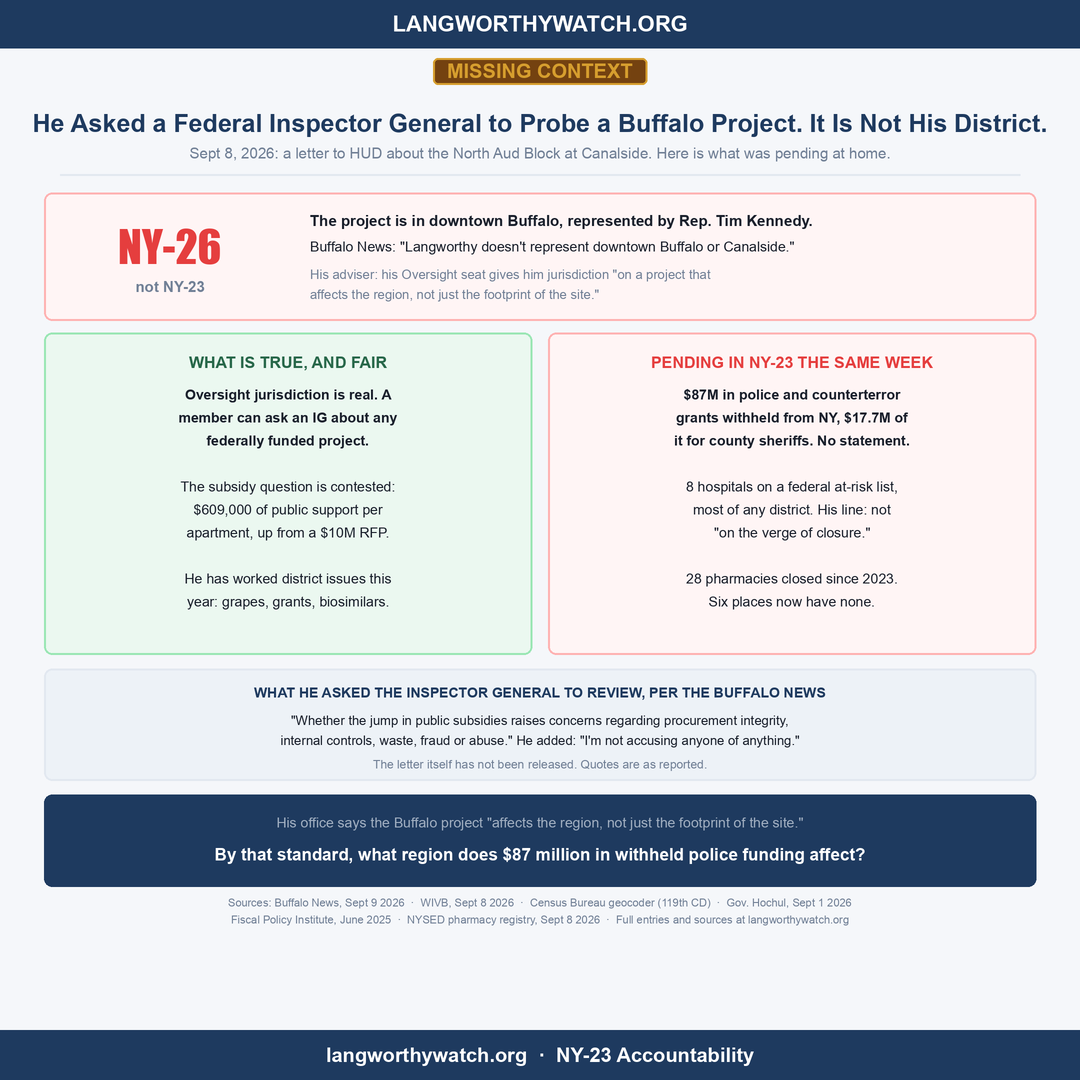
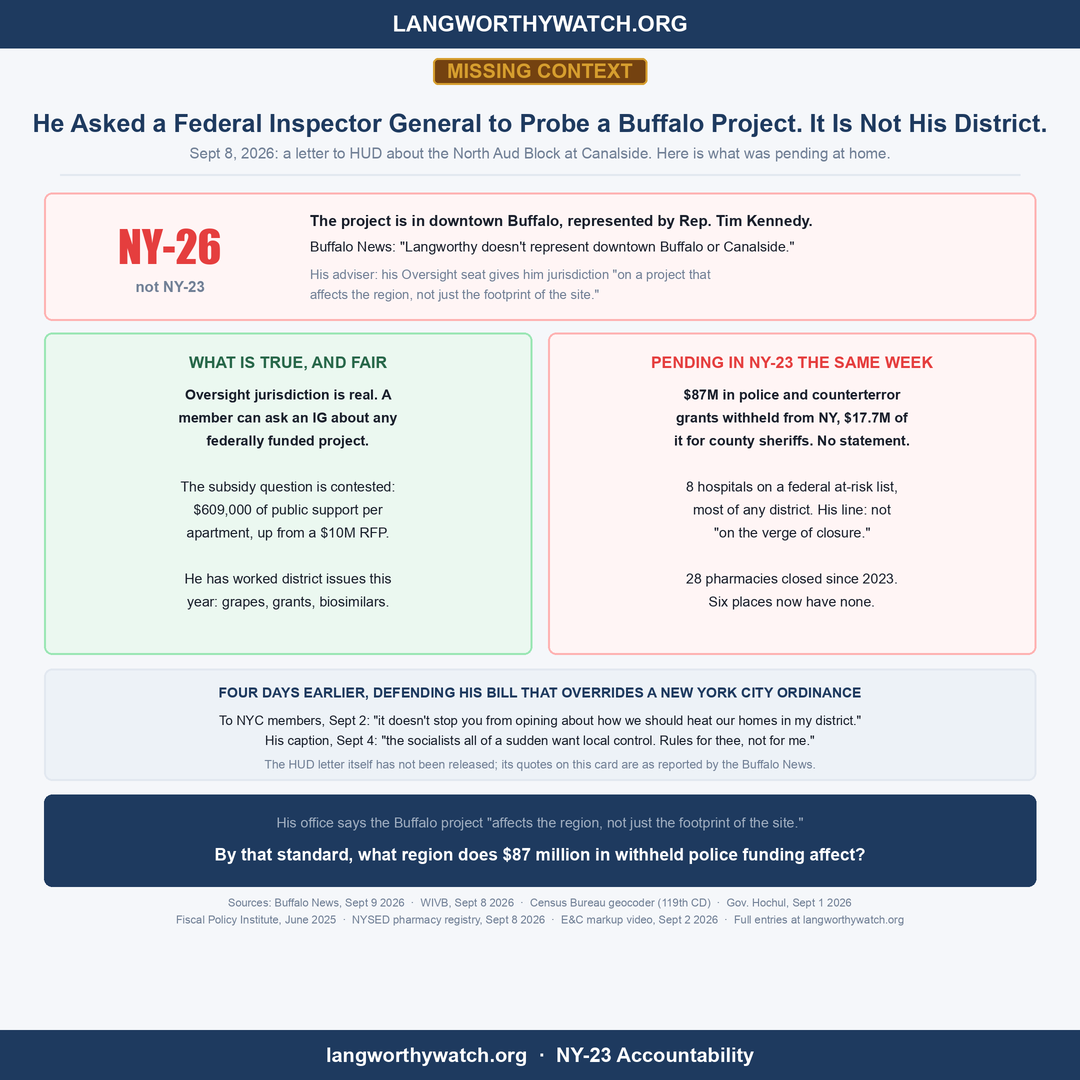
update(draft): North Aud entry, card, and caption add the local-control contrast from the BUSES markup

Changed region(s): [[0.2139, 0.6111, 0.7944, 0.7333], [0.1833, 0.825, 0.825, 0.8556]]

diff --git a/social-media/create_north_aud_card.py b/social-media/create_north_aud_card.py
@@ -73,10 +73,10 @@ y = top + col_h + 14
 # ---- strip --------------------------------------------------------------
 strip_h = 112
 c.panel(44, y, c.w - 44, y + strip_h, fill="#EDF2F7", outline=BORDER)
-c.text(c.w / 2, y + 24, "WHAT HE ASKED THE INSPECTOR GENERAL TO REVIEW, PER THE BUFFALO NEWS", size=14, bold=True, fill=NAVY, anchor="mm")
-c.text(c.w / 2, y + 52, '"Whether the jump in public subsidies raises concerns regarding procurement integrity,', size=13, fill=DARK, anchor="mm")
-c.text(c.w / 2, y + 72, 'internal controls, waste, fraud or abuse." He added: "I\'m not accusing anyone of anything."', size=13, fill=DARK, anchor="mm")
-c.text(c.w / 2, y + 96, "The letter itself has not been released. Quotes are as reported.", size=12, fill=MUTED, anchor="mm")
+c.text(c.w / 2, y + 24, "FOUR DAYS EARLIER, DEFENDING HIS BILL THAT OVERRIDES A NEW YORK CITY ORDINANCE", size=14, bold=True, fill=NAVY, anchor="mm")
+c.text(c.w / 2, y + 52, 'To NYC members, Sept 2: "it doesn\'t stop you from opining about how we should heat our homes in my district."', size=13, fill=DARK, anchor="mm")
+c.text(c.w / 2, y + 72, 'His caption, Sept 4: "the socialists all of a sudden want local control. Rules for thee, not for me."', size=13, fill=DARK, anchor="mm")
+c.text(c.w / 2, y + 96, "The HUD letter itself has not been released; its quotes on this card are as reported by the Buffalo News.", size=12, fill=MUTED, anchor="mm")
 y += strip_h + 14
 
 # ---- kicker -------------------------------------------------------------
@@ -89,7 +89,7 @@ c.text(c.w / 2, y + 60, "By that standard, what region does $87 million in withh
 y += kick_h + 16
 
 c.text(c.w / 2, y, "Sources: Buffalo News, Sept 9 2026  ·  WIVB, Sept 8 2026  ·  Census Bureau geocoder (119th CD)  ·  Gov. Hochul, Sept 1 2026", size=11, fill=MUTED, anchor="mm")
-c.text(c.w / 2, y + 17, "Fiscal Policy Institute, June 2025  ·  NYSED pharmacy registry, Sept 8 2026  ·  Full entries and sources at langworthywatch.org", size=11, fill=MUTED, anchor="mm")
+c.text(c.w / 2, y + 17, "Fiscal Policy Institute, June 2025  ·  NYSED pharmacy registry, Sept 8 2026  ·  E&C markup video, Sept 2 2026  ·  Full entries at langworthywatch.org", size=11, fill=MUTED, anchor="mm")
 
 c.footer_bar()
 c.save(os.path.join(os.path.dirname(os.path.abspath(__file__)), "north_aud_card.png"), to_desktop=True)

diff --git a/social-media/north_aud_post.md b/social-media/north_aud_post.md
@@ -2,23 +2,23 @@ DRAFT (not yet posted; entry is still draft: true). Card: north_aud_card.png. En
 
 ---
 
-Rep. Langworthy asked a federal inspector general to investigate a housing project in downtown Buffalo. It is not in his district. Here is what was pending in the district he does represent, the same week.
+Rep. Langworthy asked a federal inspector general to investigate a housing project in downtown Buffalo. It is not in his district. Here is what was pending in his own district the same week.
 
-On Sept 8 he wrote HUD's Office of Inspector General about the North Aud Block at Canalside: 251 units, more than $609,000 in public support per apartment, up from a $10 million figure in the 2022 request for proposals. His words, per the Buffalo News: "I am concerned that the project has changed materially since it was competitively solicited."
+On Sept 8 he wrote HUD's inspector general about the North Aud Block at Canalside: 251 units, more than $609,000 in public support per apartment, up from $10 million in the 2022 request for proposals. His words, per the Buffalo News: "I am concerned that the project has changed materially since it was competitively solicited."
 
 Canalside is in NY-26, represented by Tim Kennedy. The Buffalo News: "Langworthy doesn't represent downtown Buffalo or Canalside." His adviser: his Oversight seat gives him jurisdiction "on a project that affects the region, not just the footprint of the site."
 
 Pending in NY-23 the same week, each documented on our site:
 
-→ $87 million in federal police and counterterrorism grants still withheld from New York, including $17.7 million for the program that funds sheriffs in all eight NY-23 counties. No public statement from him located, while Malliotakis, Lawler and Garbarino pressed the administration.
-→ Eight NY-23 hospitals on the Fiscal Policy Institute's at-risk list, the most of any district in the state. His June town hall line: "every rural hospital that I've met is not on the verge of closure."
-→ 28 community pharmacies closed since 2023; six places now have none.
-→ The $212 million rural health award, announced three times, no NY-23 facility named.
+→ $87 million in federal police and counterterrorism grants still withheld from New York, including $17.7 million for the program that funds sheriffs in all eight NY-23 counties. No public statement from him located; Malliotakis, Lawler and Garbarino pressed the administration.
+→ Eight NY-23 hospitals on a federal at-risk list, the most of any district in the state. His June town hall line: "every rural hospital that I've met is not on the verge of closure."
+→ 28 pharmacies closed since 2023; six places now have none.
+→ Four days earlier, defending his own bill overriding a New York City ordinance, he told the city's members to stop "opining about how we should heat our homes in my district," then posted that "the socialists all of a sudden want local control."
 
-The fair reading: Oversight jurisdiction is real, the subsidy question is contested across party lines, and he has worked district matters this year (grapes, grants, biosimilars). We take no position on the project. The gap is specific: a federal probe request for Buffalo, and no located letter or statement on the two largest problems at home.
+The fair reading: Oversight jurisdiction is real, the subsidy question is contested across party lines, and he has worked district matters this year. We take no position on the project. The gap is specific: a probe request for Buffalo, and no located letter or statement on the two largest problems at home.
 
 By his office's own standard, what region does $87 million in withheld police funding affect?
 
 VERDICT: Missing Context
 
-The letter has not been released; quotes are as reported. Full entry and sources: https://langworthywatch.org/fact-checks/2026-09-09-north-aud-probe-not-his-district/
+Letter not yet released; quotes as reported. Full entry and sources: https://langworthywatch.org/fact-checks/2026-09-09-north-aud-probe-not-his-district/

diff --git a/content/fact-checks/2026-09-09-north-aud-probe-not-his-district.md b/content/fact-checks/2026-09-09-north-aud-probe-not-his-district.md
@@ -76,6 +76,29 @@ footprint of the site.'"
 
 ---
 
+## The local-control argument, four days earlier
+
+The letter followed, by four days, his own argument against outside
+interference in local decisions. Defending his BUSES Act in the Energy and
+Commerce markup on September 2, a bill that uses federal law to override a
+New York City idling ordinance, he told the city's members: "yes, I do not
+live in your district, but it doesn't stop you from opining about how we
+should heat our homes in my district" (committee recording, 119:03; see
+[the BUSES entry](/fact-checks/2026-09-04-buses-act-bounty-post-vs-committee-record/)).
+His September 4 caption on that clip: "NYC liberals love forcing their
+radical agenda on rural communities like NY23... But the second we try to
+stop their asinine bus-driver bounty scheme... the socialists all of a
+sudden want local control. Rules for thee, not for me."
+
+Within the same week, then, the record shows federal preemption of a city
+law, a federal probe request into another district's state-run project, and
+a caption faulting downstate members for wanting local control. Each can be
+defended on its own terms; his office's "affects the region" rationale is
+one such defense. What the record does not contain is a principle of local
+control that applies to all three.
+
+---
+
 ## What was pending in his own district the same week
 
 Each line below is documented in its own entry on this site, with sources.
@@ -127,7 +150,11 @@ third.
    at-risk finding to be addressed?
 3. His adviser says the project "affects the region." By that standard, what
    region does the withheld counterterrorism money affect?
-4. Will his office release the HUD letter?
+4. On September 4 he wrote that downstate members "all of a sudden want local
+   control" when they objected to his bill overriding a city ordinance. Does
+   local control apply to Buffalo's state-run project, or to his district's
+   heating rules, or to neither?
+5. Will his office release the HUD letter?
 
 ---
 
